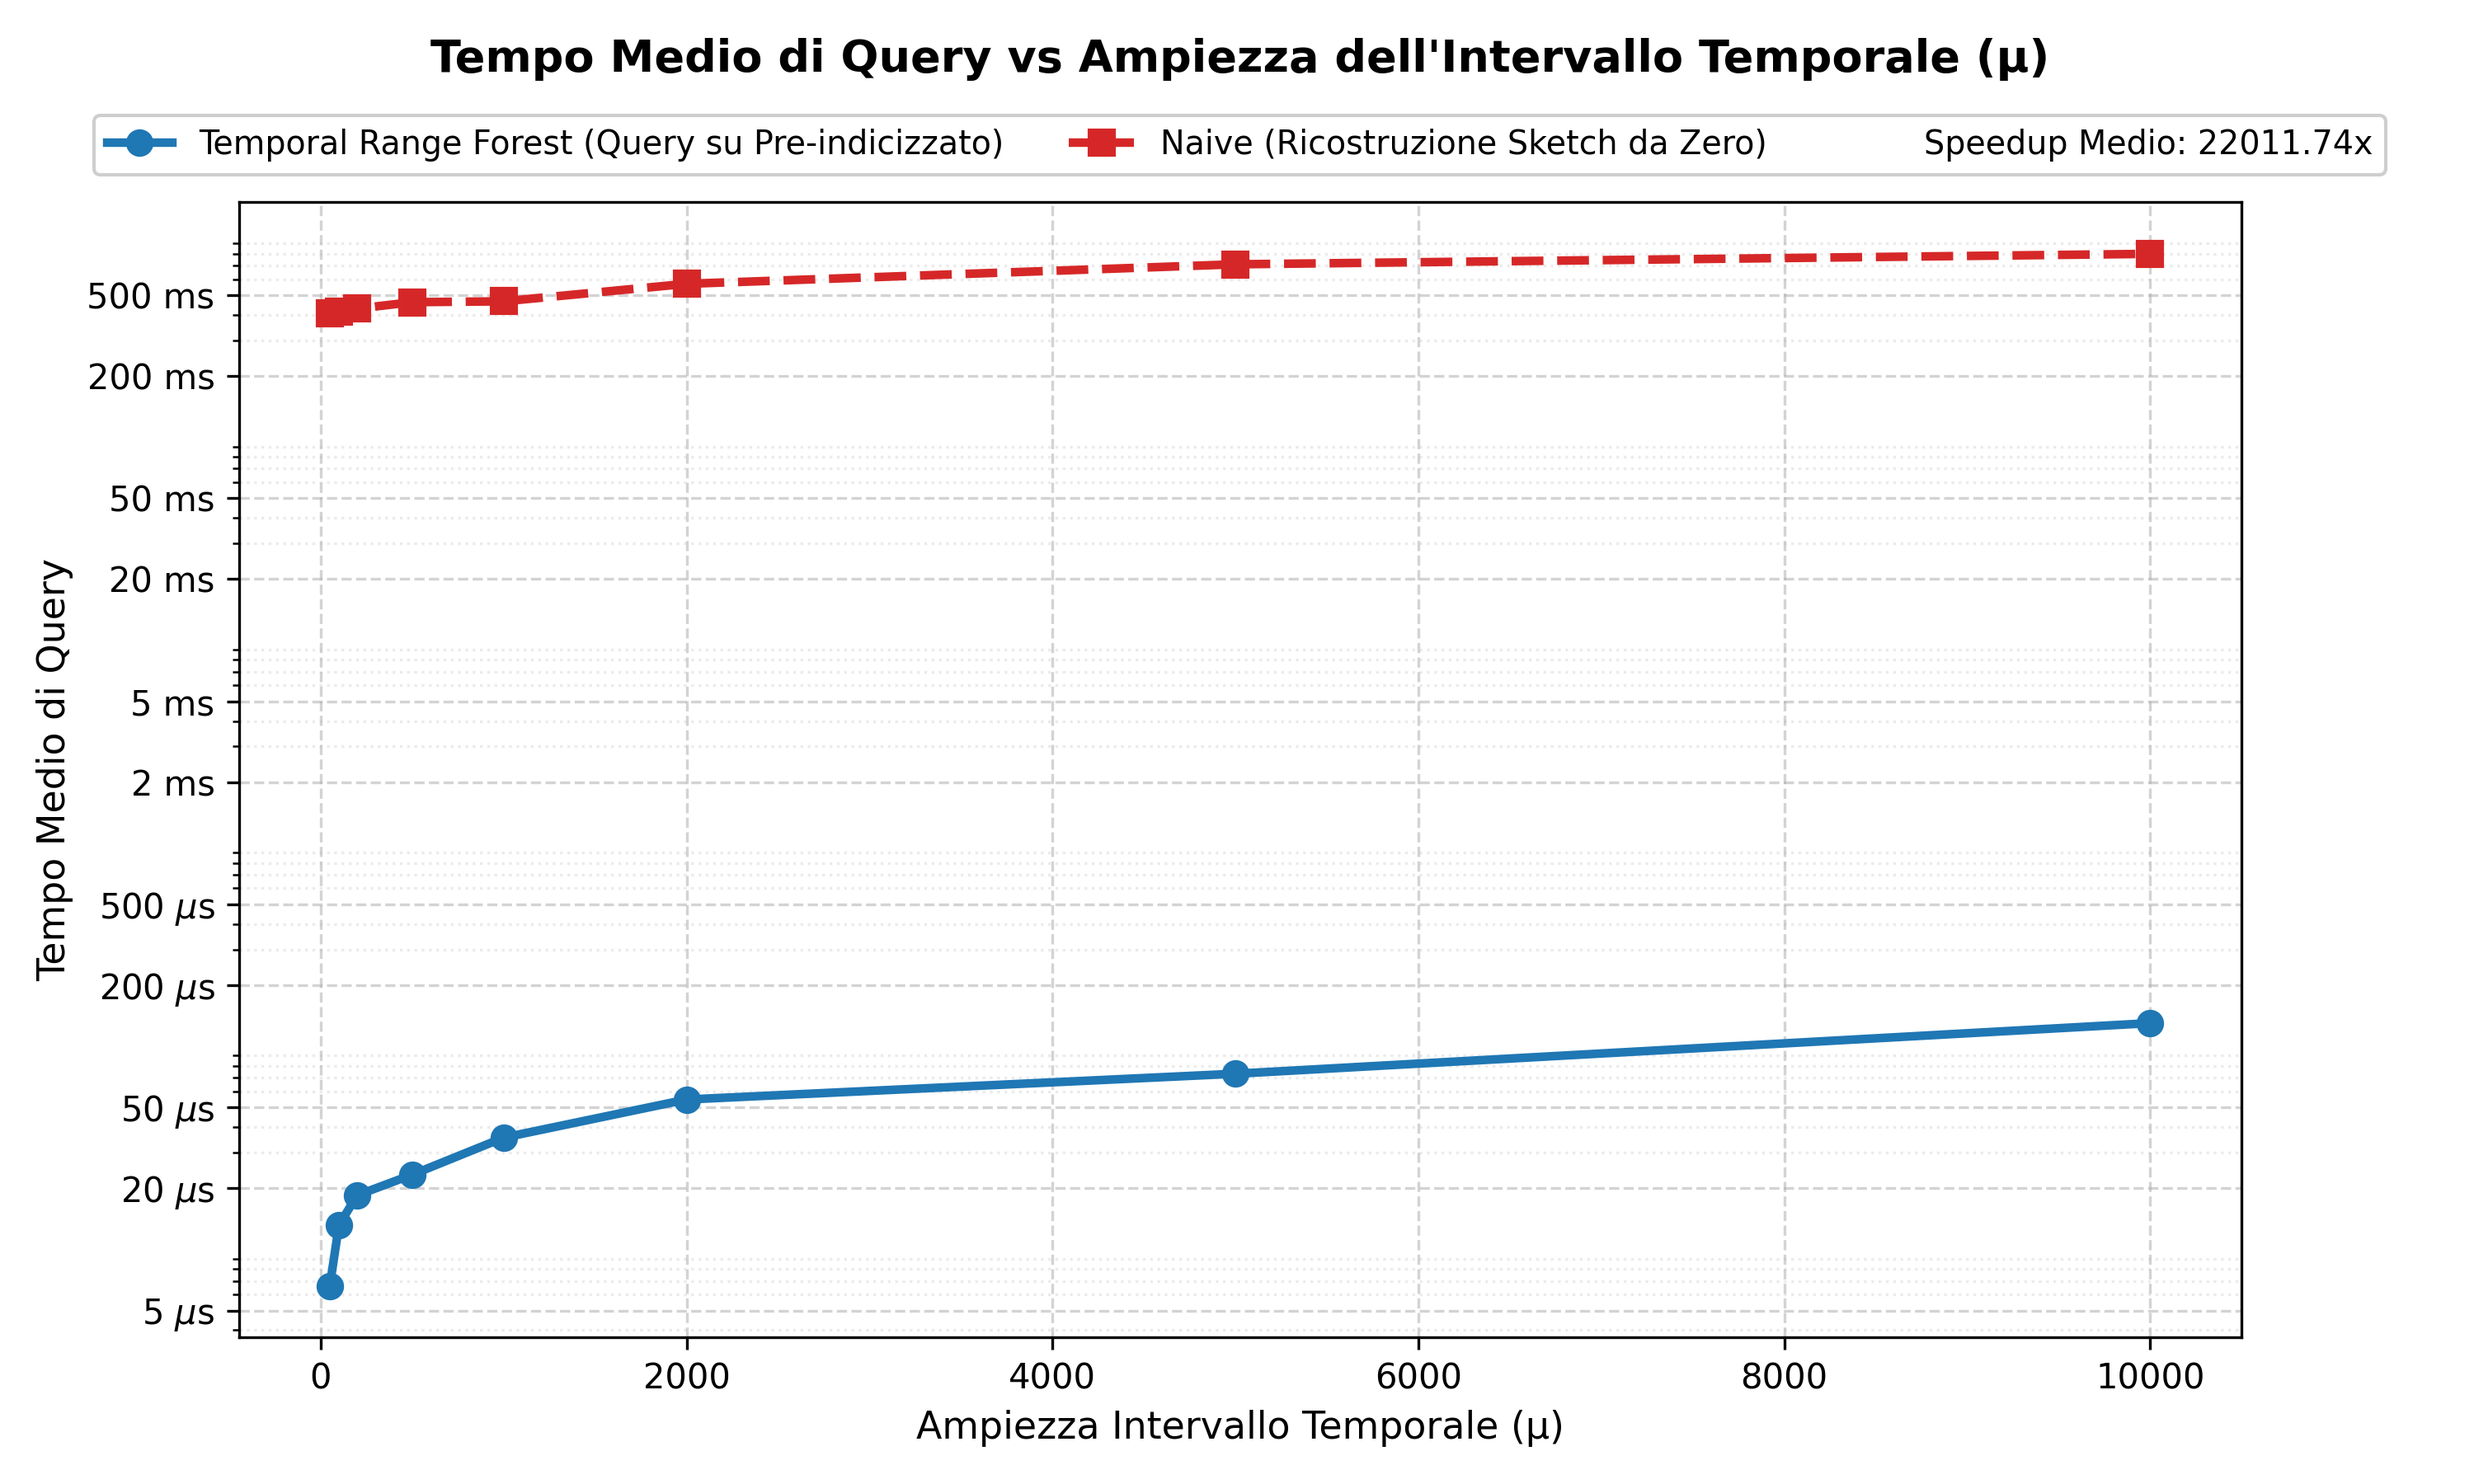
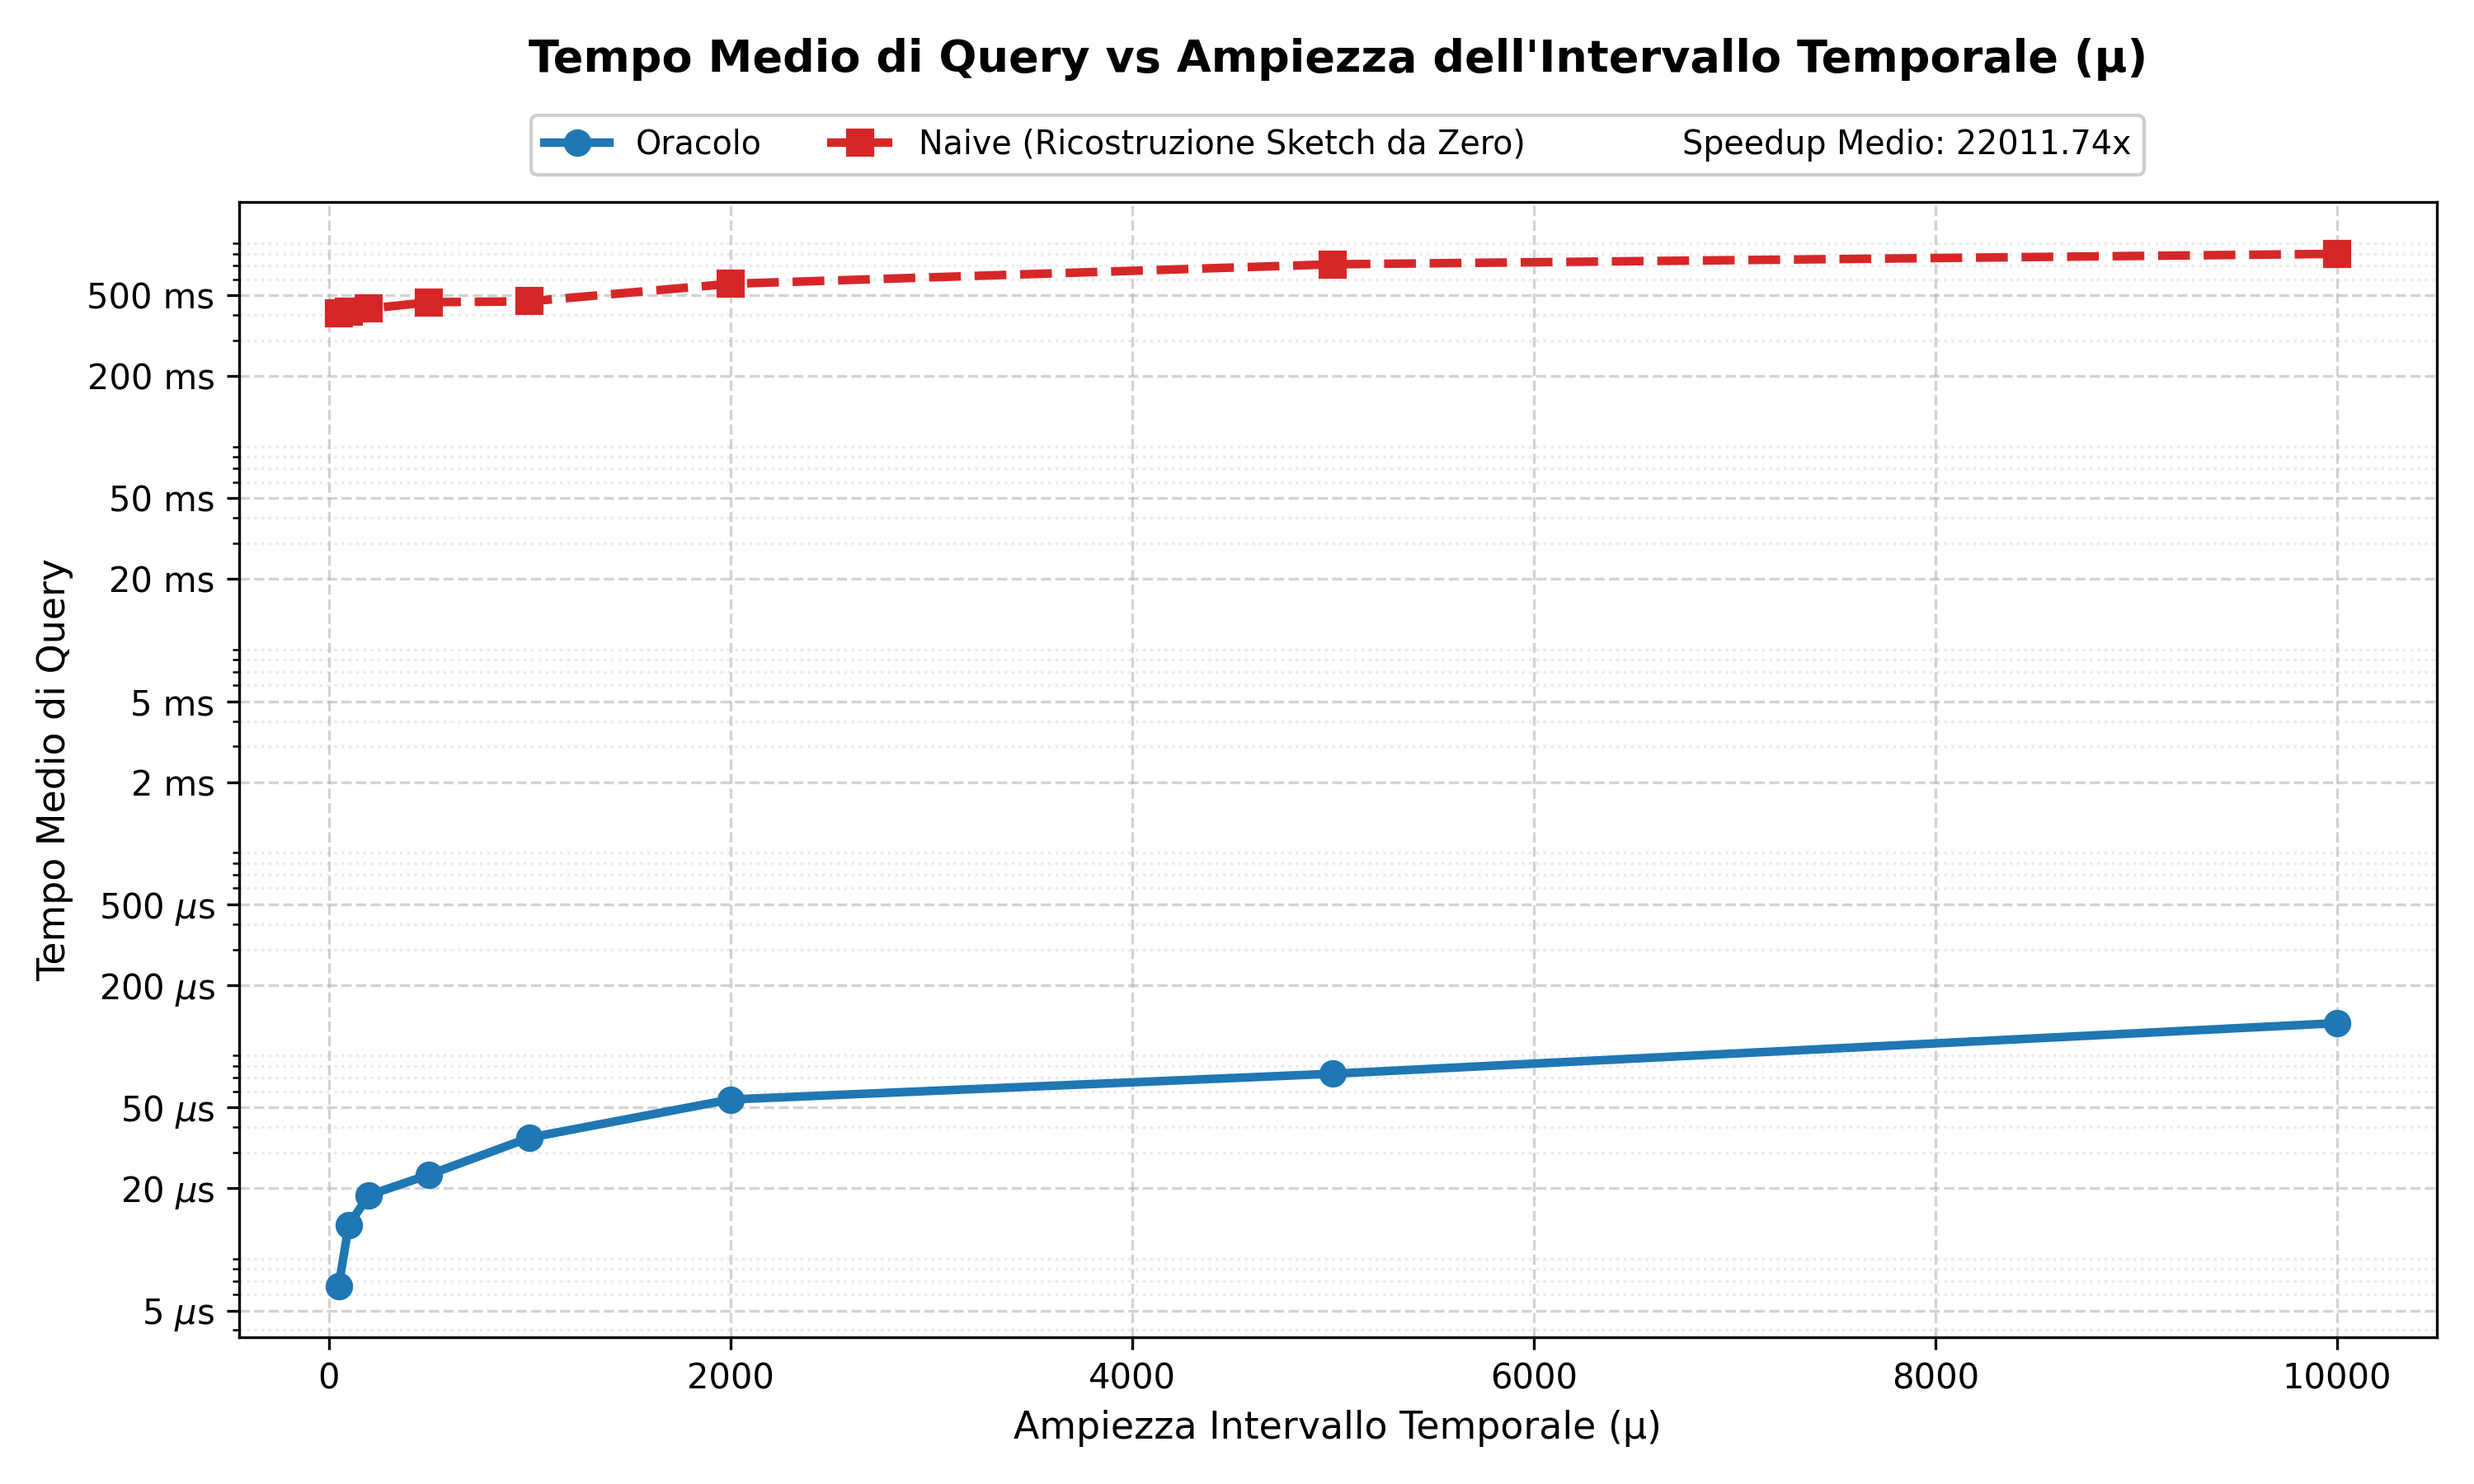
update

diff --git a/TemporalNeighborhoodSearch/exp/esperimento_SDvsNaive/experiments3_ER.cpp b/TemporalNeighborhoodSearch/exp/esperimento_SDvsNaive/experiments3_ER.cpp
@@ -295,7 +295,7 @@ int main(int argc, char *argv[])
 
     double avg_speedup_overall = (evaluated_mu_count > 0) ? (sum_speedup / evaluated_mu_count) : 0.0;
     std::cout << "==================================================" << std::endl;
-    std::cout << " SPEEDUP MEDIO COMPLESSIVO (Naive / TRF): "
+    std::cout << " SPEEDUP MEDIO COMPLESSIVO (Naive / Oracolo): "
               << std::fixed << std::setprecision(2) << avg_speedup_overall << "x" << std::endl;
     std::cout << "==================================================" << std::endl;
 

diff --git a/TemporalNeighborhoodSearch/exp/esperimento_SDvsNaive/plot3_ER.py b/TemporalNeighborhoodSearch/exp/esperimento_SDvsNaive/plot3_ER.py
@@ -74,7 +74,7 @@ def plot_results(
       markersize=7,
       linestyle='-',
       color='#1f77b4',
-      label='Temporal Range Forest (Query su Pre-indicizzato)',
+      label='Oracolo',
       linewidth=2.5,
   )
   ax.plot(
@@ -159,7 +159,7 @@ def plot_results(
 
 def parse_cli():
   parser = argparse.ArgumentParser(
-      description='Plot benchmark TRF vs Naive per intervalli temporali'
+      description='Plot benchmark Oracolo vs Naive per intervalli temporali'
   )
   parser.add_argument(
       'csv_file',

diff --git a/TemporalNeighborhoodSearch/exp/esperimento_SDvsNaive/plot3.py b/TemporalNeighborhoodSearch/exp/esperimento_SDvsNaive/plot3.py
@@ -94,7 +94,7 @@ def plot_results(
       markersize=7,
       linestyle='-',
       color='#1f77b4',
-      label='Temporal Range Forest (Query su Pre-indicizzato)',
+      label='Oracolo',
       linewidth=2.5,
   )
   ax.plot(
@@ -182,7 +182,7 @@ def plot_results(
 
 
 def parse_cli():
-  parser = argparse.ArgumentParser(description='Plot benchmark TRF vs Naive')
+  parser = argparse.ArgumentParser(description='Plot benchmark Oracolo vs Naive')
   parser.add_argument(
       'csv_file',
       nargs='?',
